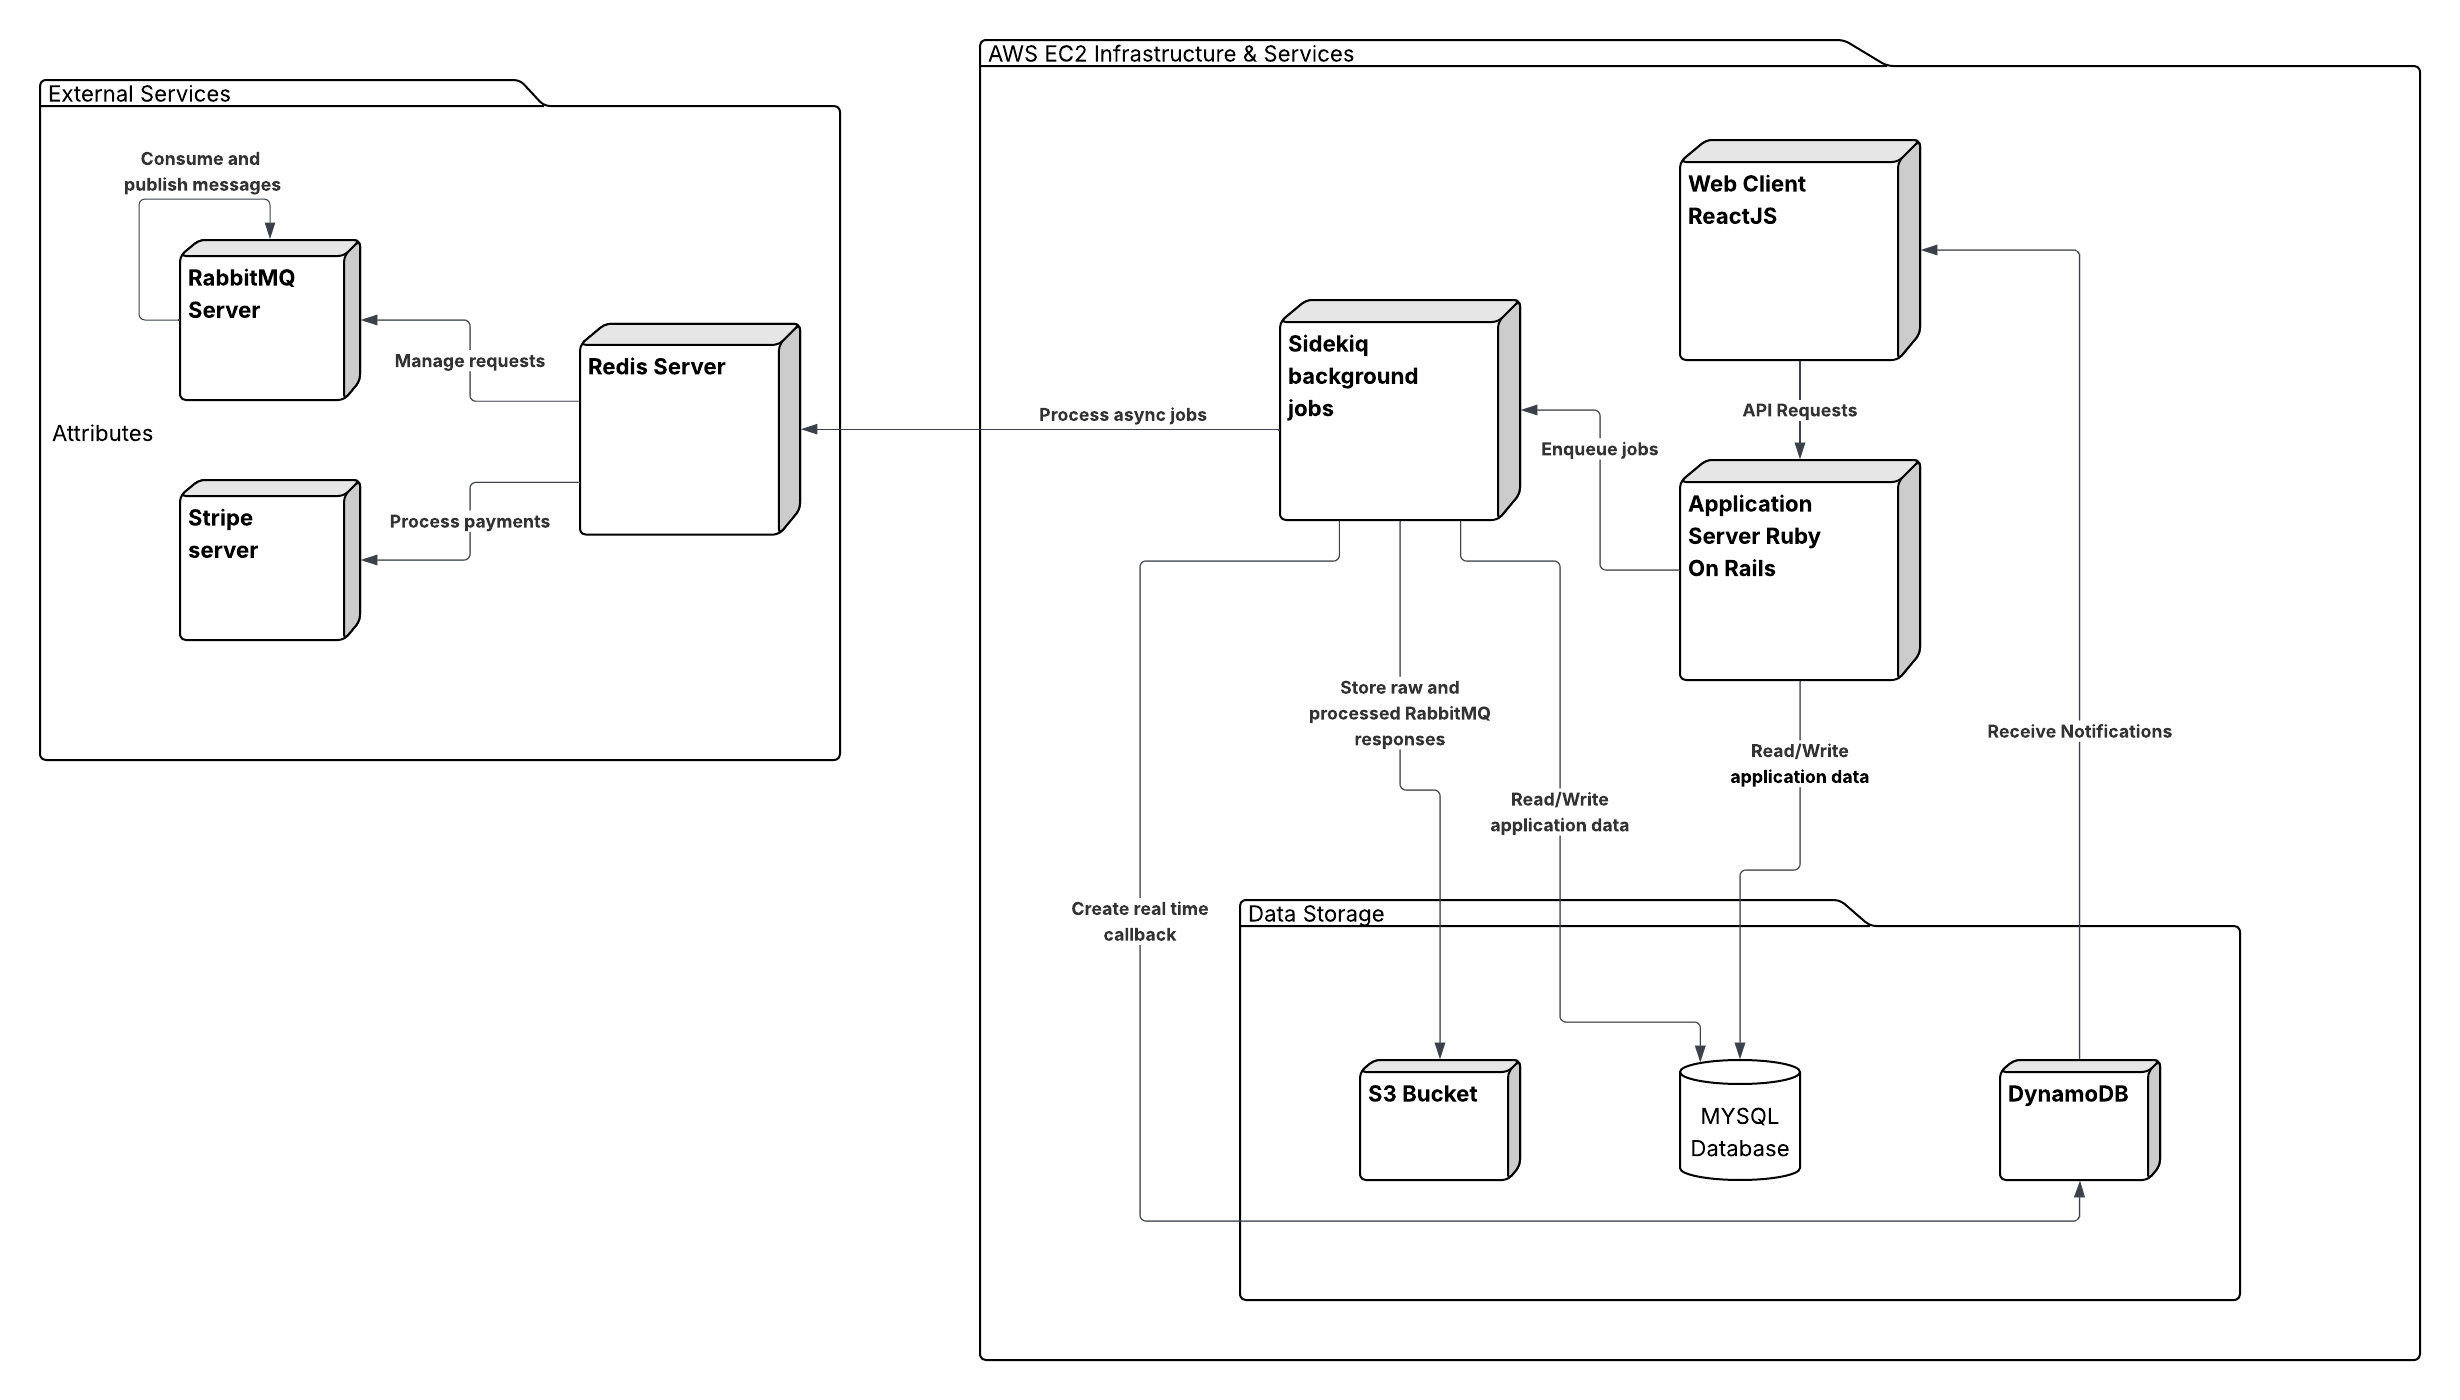
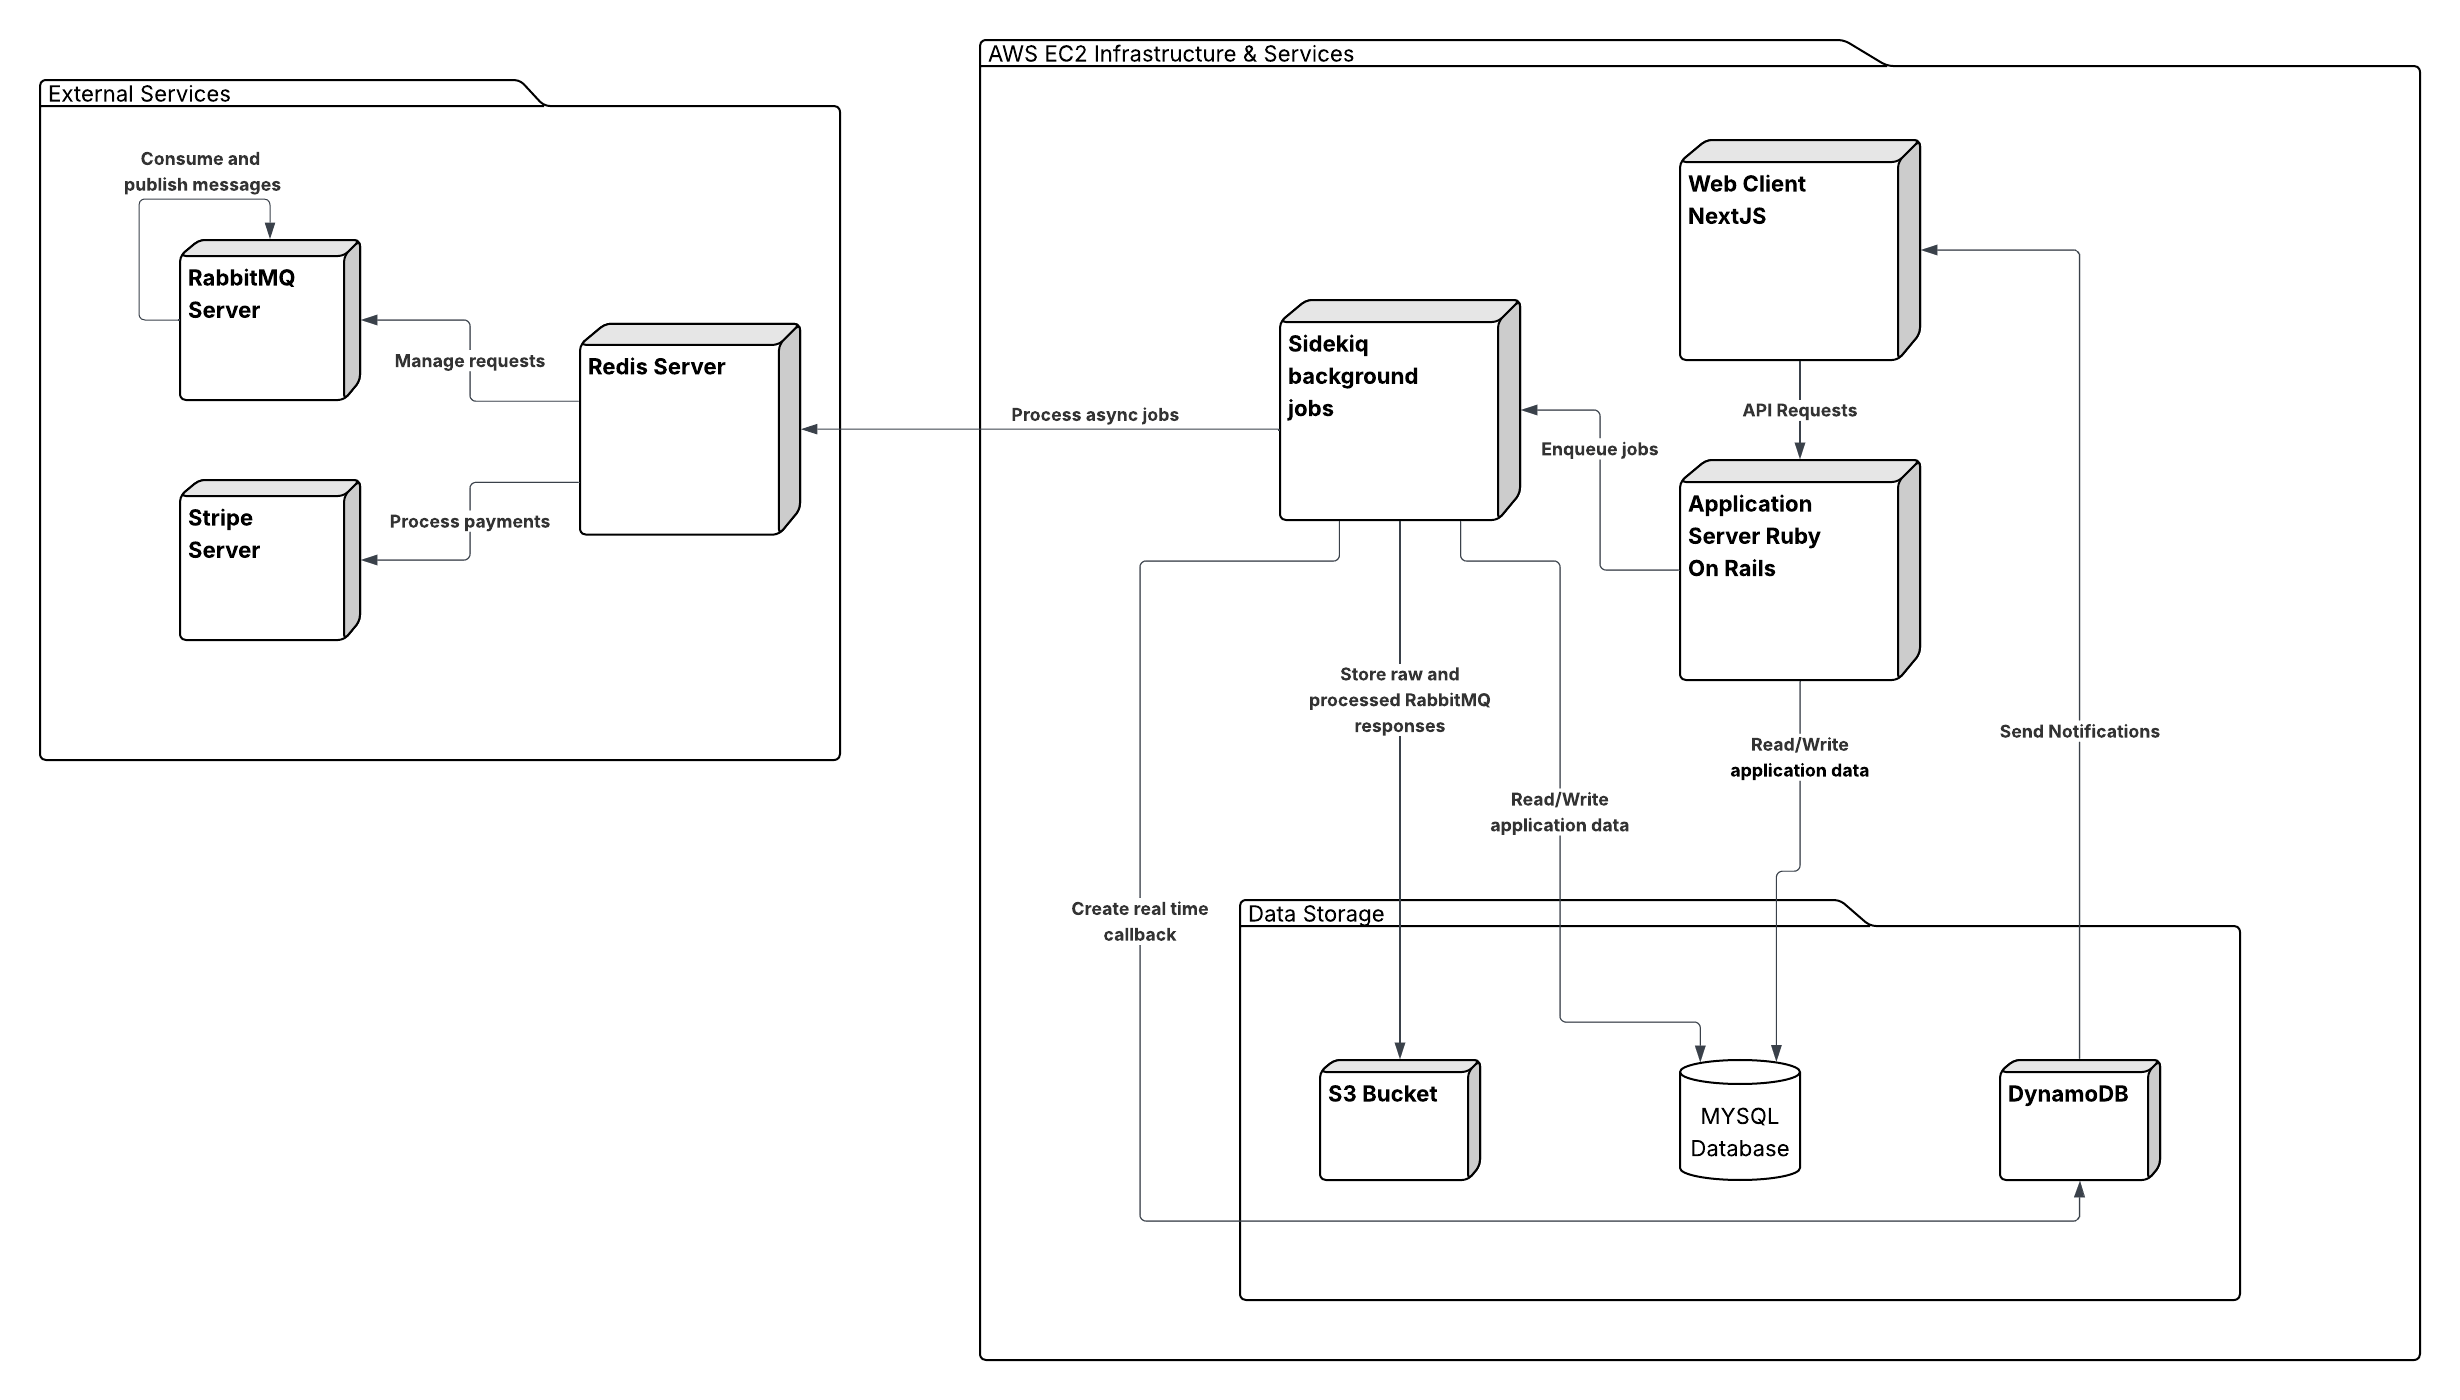
fix: typos and inconsistencies in diagrams

diff --git a/thesis_radulescu.tex b/thesis_radulescu.tex
@@ -821,7 +821,7 @@ denaro avanzato e rimborsi, cosa che il committente non aveva richiesto.
 \begin{figure}[h]
 \centering
 \includegraphics[width=0.6\linewidth]{Functionality Flowchart.png}
-\caption{Activity diagram che mostra il flusso della funzionalità}
+\caption{Activity diagram del flusso completo della funzionalità}
 \label{fig:flowchart}
 \end{figure}
 
